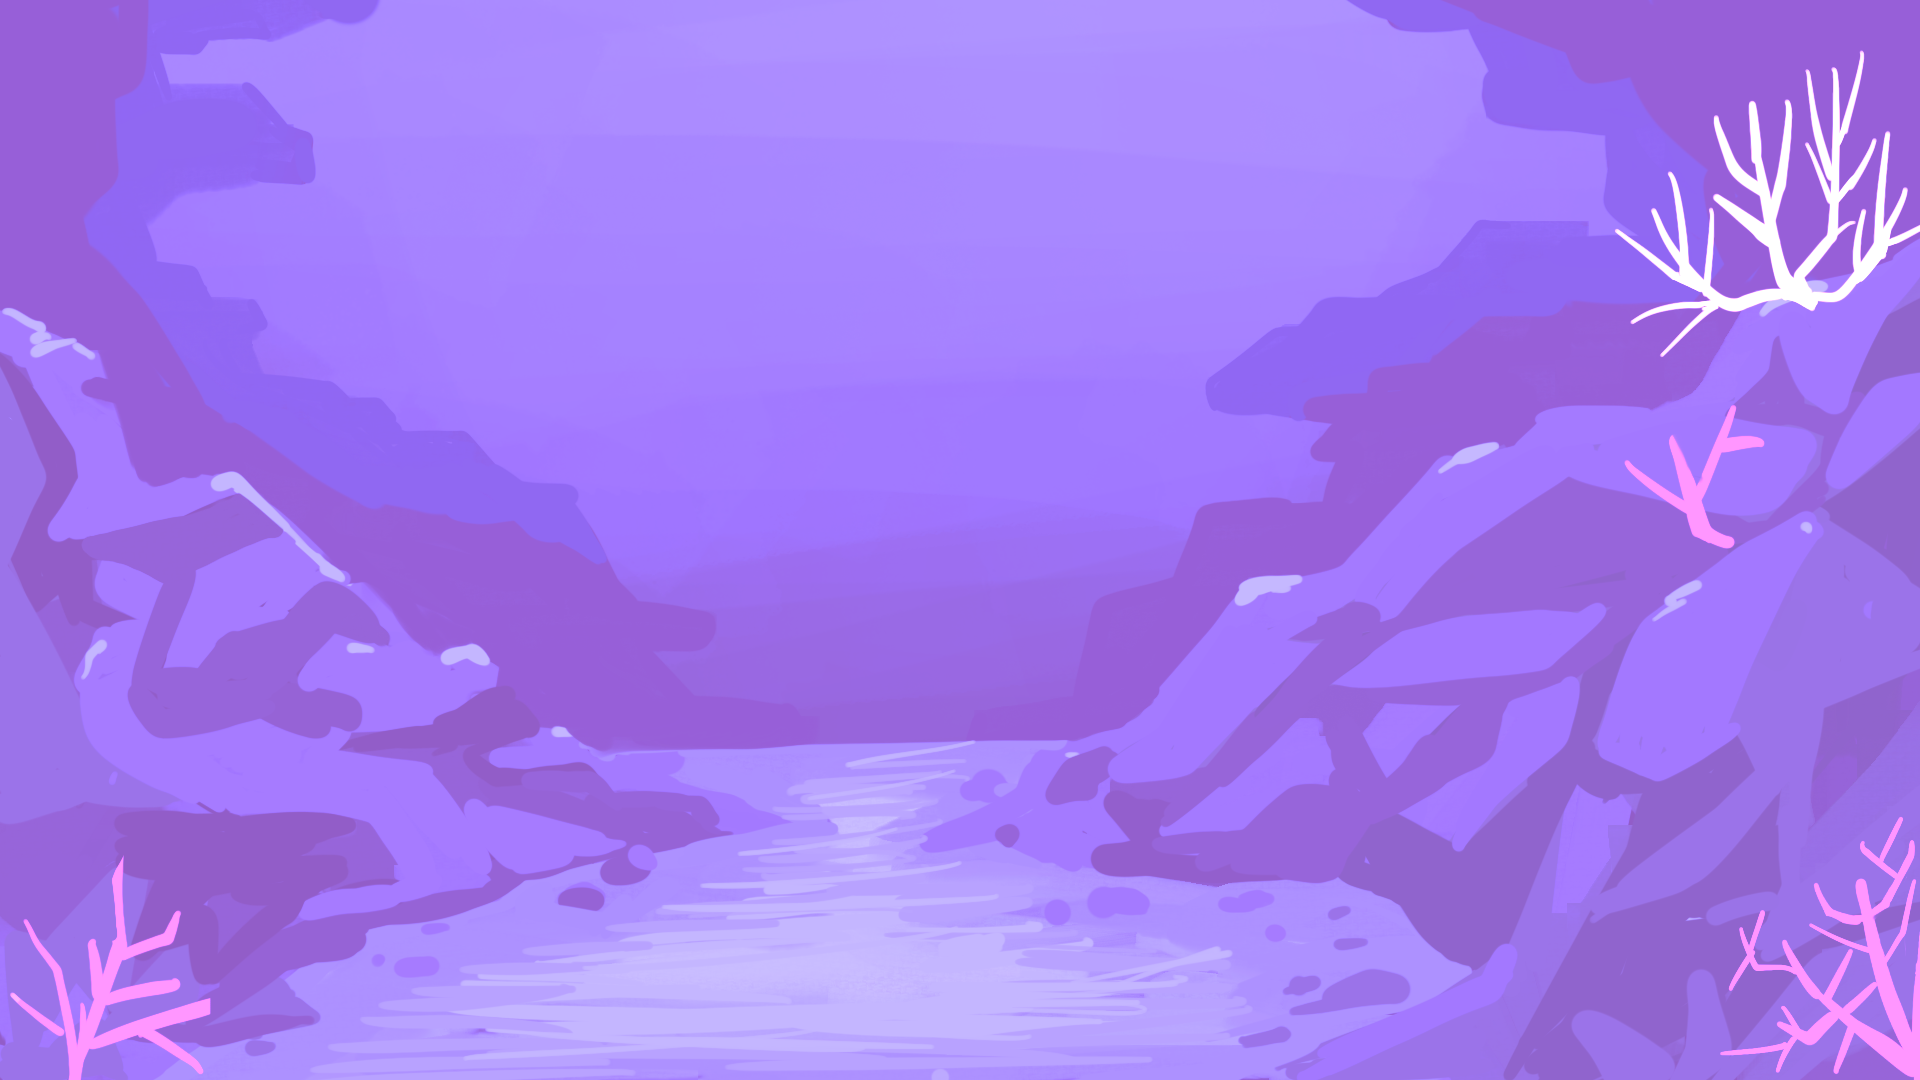
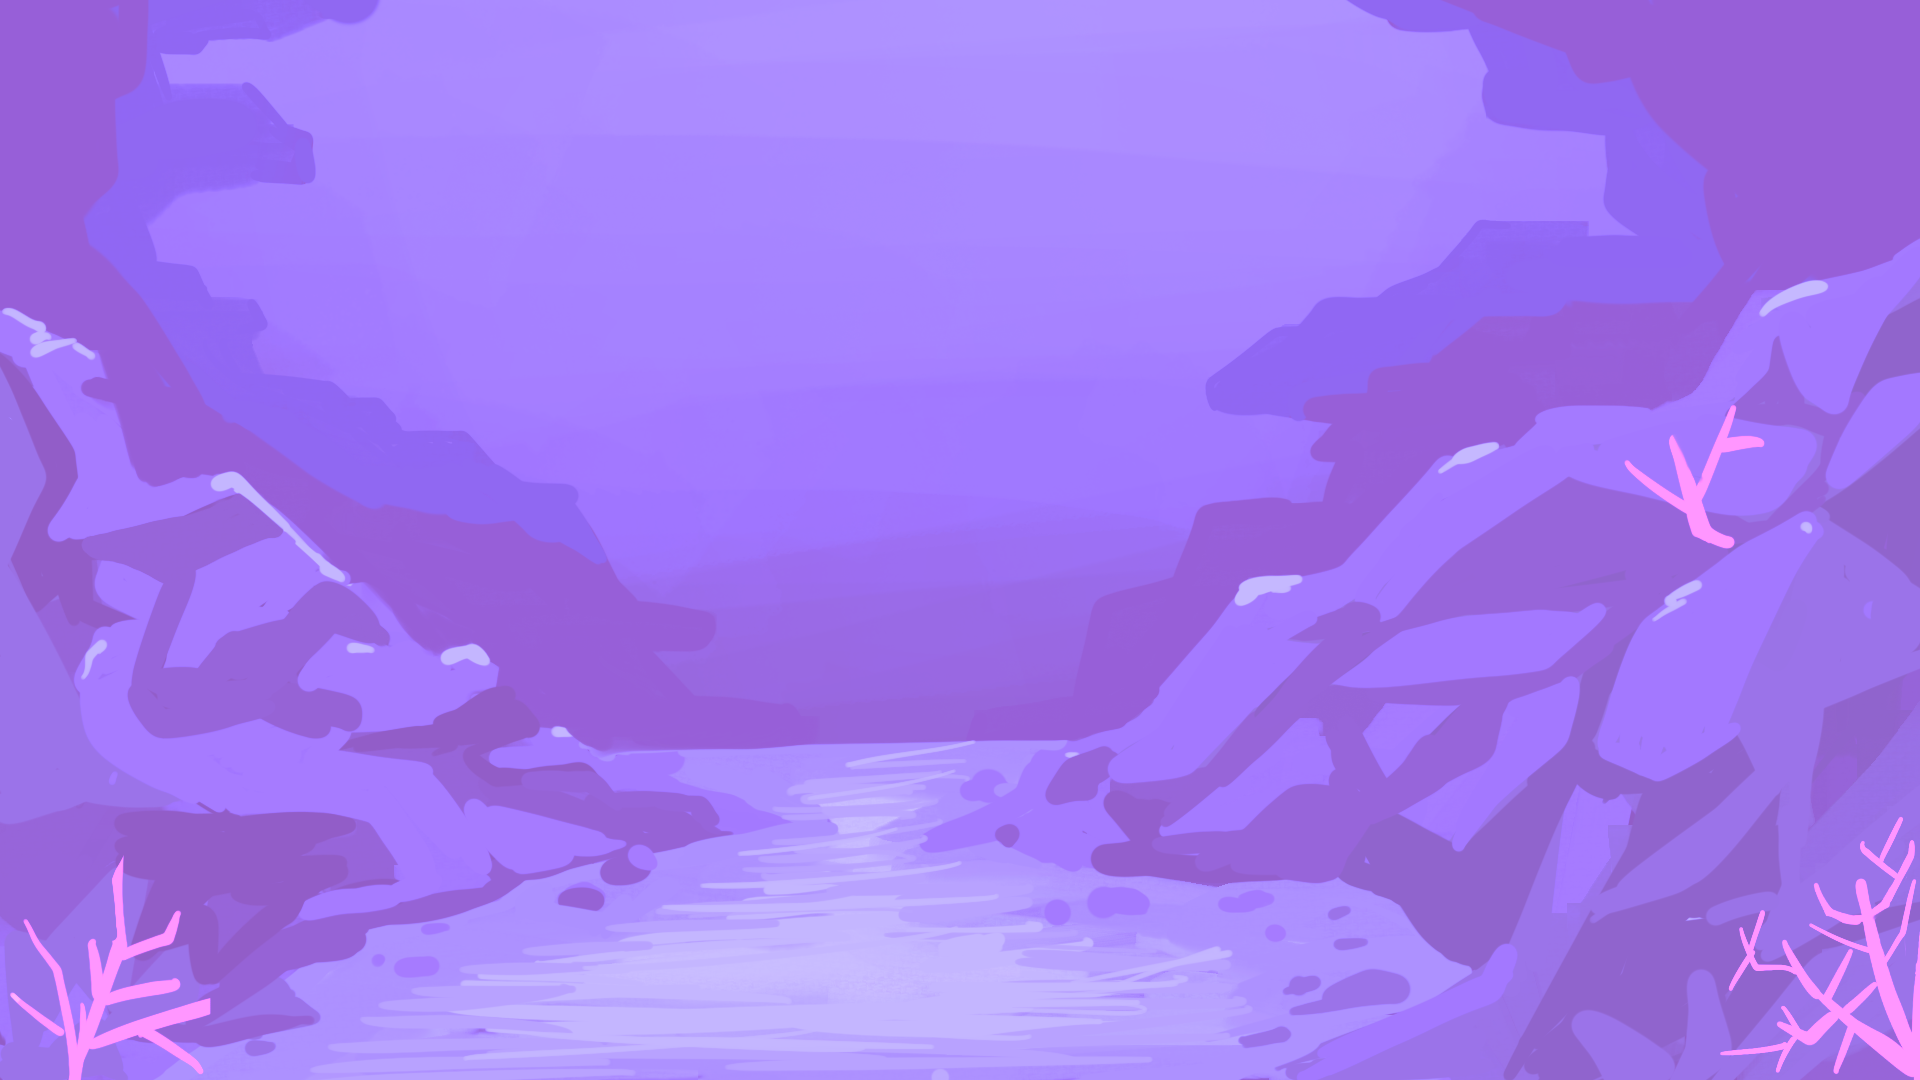
Finished visual elements and added animated seaweed!

Changed region(s): [[0.8438, 0.0611, 1.0, 0.3056]]

diff --git a/music_starter.js b/music_starter.js
@@ -6,44 +6,63 @@ let ShineArrayY = [130, 850, 1000, 300, 340, 690];
 let CircleArrayX = [500, 700, 100, 60, 220, 50, 500, 1000, 860, 600, 1200, 1400, 1170, 1400, 1600, 1870, 1640];
 let CircleArrayY = [50, 60, 160, 650, 840, 1000, 1040, 1020, 340, 250, 120, 50, 450, 540, 800, 300, 200];
 let bubbles = [];
-let coralArrayX = [10, 5, 60, 70, 130, 150, 150, 20, 1590, 1660, 1680, 1600, 1670, 1750, 210];
-let coralArrayY = [950, 1040, 1000, 900, 960, 890, 1040, 870, 530, 560, 500, 470, 420, 460, 970];
+let coralArrayX = [10, 5, 60, 70, 130, 150, 150, 20, 1590, 1660, 1680, 1600, 1670, 1750, 210, 1860, 1800, 1770, 1870, 1840, 1720, 1700];
+let coralArrayY = [950, 1040, 1000, 900, 960, 890, 1040, 870, 530, 560, 500, 470, 420, 460, 970, 850, 900, 990, 950, 1030, 910, 1030];
 let fishY;
 let swirlY;
+
 let Ymove = 250 //where the bubbles start
 let Ymove2 = 1380
 let Ymove3 = 1480
-let img; //pink fish
-let img2; //blue fish
-let img3; //rocks
-let img4; //bw rocks w coral
-let img5; //water background
-let img6; //bw purple coral
-let img7; //purple coral left
-let img8; //purple coral right
-let img9; //swirl
-let img10; //magic background
-let img11; //bw purplecoral right
+
+let PinkFish; //pink fish
+let BlueFish; //blue fish
+let BackgroundRocks; //rocks
+let BWBackgroundRocks; //bw rocks w coral
+let Water; //water background
+let PurpleCoralL; //purple coral left
+let PurpleCoralR; //purple coral right
+let BWPurpleCoralL; //bw purple coral
+let BWPurpleCoralR; //bw purplecoral right
+let Swirl; //swirl
+let MagicBackground; //magic background
+let Seaweed = [];
+let MSeaweed = [];
+let BWSeaweed = [];
+
 let firstRun = true
 
 // vocal, drum, bass, and other are volumes ranging from 0 to 100
 function draw_one_frame(words, vocal, drum, bass, other, counter) {
+  rectMode(CENTER)
   if (firstRun) { //images
-    img = loadImage('Pink_Fish.png'); //pink fish
-    img2 = loadImage('Blue_Fish.png'); //blue fish
-    img3 = loadImage('RockCoral.png');
-    img4 = loadImage('BWRockCoral.png');
-    img5 = loadImage('Water.png');
-    img6 = loadImage('BWPurpleCoral.png')
-    img7 = loadImage('PurpleCoral.png');
-    img8 = loadImage('PurpleCoral2.png');
-    img9 = loadImage('Swirl.png');
-    img10 = loadImage('magicbackground.png');
-    img11 = loadImage('BWPurpleCoral2.png');
+    PinkFish = loadImage('Pink_Fish.png'); //pink fish
+    BlueFish = loadImage('Blue_Fish.png'); //blue fish
+    BackgroundRocks = loadImage('RockCoral.png');
+    BWBackgroundRocks = loadImage('BWRockCoral.png');
+    Water = loadImage('Water.png');
+    BWPurpleCoralL = loadImage('BWPurpleCoral.png')
+    PurpleCoralL = loadImage('PurpleCoral.png');
+    PurpleCoralR = loadImage('PurpleCoral2.png');
+    Swirl = loadImage('Swirl.png');
+    MagicBackground = loadImage('magicbackground.png');
+    BWPurpleCoralR = loadImage('BWPurpleCoral2.png');
+
+    Seaweed.push(loadImage('Seaweed_1.png'));
+    Seaweed.push(loadImage('Seaweed_2.png'));
+    Seaweed.push(loadImage('Seaweed_3.png'));
+
+    MSeaweed.push(loadImage('MSeaweed_1.png'));
+    MSeaweed.push(loadImage('MSeaweed_2.png'));
+    MSeaweed.push(loadImage('MSeaweed_3.png'));
+
+    BWSeaweed.push(loadImage('BWSeaweed_1.png'));
+    BWSeaweed.push(loadImage('BWSeaweed_2.png'));
+    BWSeaweed.push(loadImage('BWSeaweed_3.png'));
+
     firstRun = false
   }
-  rectMode(CENTER)
-  background(img5);
+  background(Water);
 
   class Bubble {
     constructor(x, y, r) {
@@ -75,44 +94,43 @@ function draw_one_frame(words, vocal, drum, bass, other, counter) {
   let swirlY = map(bass, 0, 100, -50, 10)
 
 
-  //start and end
+  //start and end scene
   if ((counter > -5 && counter < 901) || (counter > 14700 && counter < 15801)) {
-    image(img3, 0, 0); //rocks
-    image(img7, 430, 550, coralSize, coralSize); //purple corals 
-    image(img8, 1400, 550, coralSize, coralSize);
+    image(BackgroundRocks, 0, 0); //rocks
+    image(PurpleCoralL, 430, 550, coralSize, coralSize); //purple corals 
+    image(PurpleCoralR, 1400, 550, coralSize, coralSize);
     DrawCoral([211, 95, 212], [226, 182, 244]); //spinning coral
     DrawCoral([211, 95, 212], [226, 182, 244], 1150, -140);
     DrawCoral([211, 95, 212], [226, 182, 244], 50, 100, 0.5);
-    DrawSeaweed();
-    image(img2, 800, fishY); //change to blue fishy
+    DrawSeaweed(Seaweed);
+    image(BlueFish, 800, fishY); //change to blue fishy
 
   }
 
-  //build up
+  //build up scene scene
   if ((counter > 900 && counter < 2721) || (counter > 6500 && counter < 7401) || (counter > 10100 && counter < 12001)) {
-    image(img3, 0, 0); //rocks
-    image(img7, 430, 550, coralSize, coralSize); //purple corals 
-    image(img8, 1400, 550, coralSize, coralSize);
+    image(BackgroundRocks, 0, 0); //rocks
+    image(PurpleCoralL, 430, 550, coralSize, coralSize); //purple corals 
+    image(PurpleCoralR, 1400, 550, coralSize, coralSize);
     DrawCoral([211, 95, 212], [226, 182, 244]);
     DrawCoral([211, 95, 212], [226, 182, 244], 1150, -140);
     DrawCoral([211, 95, 212], [226, 182, 244], 50, 100, 0.5);
-    DrawSeaweed();
-    image(img, 800, fishY); // pink fish
+    DrawSeaweed(Seaweed);
+    image(PinkFish, 800, fishY); // pink fish
   }
 
-  //magic 
+  //magic scene
   if ((counter > 2720 && counter < 5601) || (counter > 7400 && counter < 9201) || (counter > 12000 && counter < 14700)) {
-    image(img10, 0, 0);
+    image(MagicBackground, 0, 0);
     DrawCoral([255, 172, 255], [248, 231, 255]); //spinning coral
     DrawCoral([255, 172, 255], [248, 231, 255], 1150, -140);
     DrawCoral([255, 172, 255], [248, 231, 255], 50, 100, 0.5);
-    DrawSeaweed();
+    DrawSeaweed(MSeaweed);
     push();
     scale(1.06);
-    image(img9, 0, swirlY); //swirls :O
+    image(Swirl, 0, swirlY); //swirls :O
     pop();
-    image(img, 800, fishY); // fish
-
+    image(PinkFish, 800, fishY); // fish
 
     for (let s = 0; s <= 17; s++) { //circles
       fill(255, 232, 234);
@@ -128,42 +146,40 @@ function draw_one_frame(words, vocal, drum, bass, other, counter) {
 
       ellipse(ShineArrayX[j], ShineArrayY[j], shineSize, 5);
       ellipse(ShineArrayX[j], ShineArrayY[j], 5, shineSize); //shine shape
-
     }
 
-    // for (let h = 0; h <= 20; h++) { //stars
-    // }    
   }
 
-  //still
+  //still scene
   if ((counter > 5600 && counter < 6501) || (counter > 9200 && counter < 10101)) {
     background(36, 36, 36);
-    image(img4, 0, 0)
-    image(img6, 430, 550, coralSize, coralSize); //purple corals 
-    image(img11, 1400, 550, coralSize, coralSize);
+    image(BWBackgroundRocks, 0, 0)
+    image(BWPurpleCoralL, 430, 550, coralSize, coralSize); //purple corals 
+    image(BWPurpleCoralR, 1400, 550, coralSize, coralSize);
     stroke('white');
     DrawCoral([143, 143, 143], [210, 210, 210]);
     DrawCoral([143, 143, 143], [210, 210, 210], 1150, -140);
     DrawCoral([143, 143, 143], [210, 210, 210], 50, 100, 0.5);
-    DrawSeaweed();
+    DrawSeaweed(BWSeaweed);
   }
 
-  //bubbles 
-  // if ((counter > 2650 && counter < 2700) || (counter > 5550 && counter < 5650) || (counter > 6450 && counter < 6550)) { //needs 150 counts
-  //   for (let b = 0; b < 340; b++) {
-  //     let x = random(width);
-  //     let y = random(height);
-  //     let r = random(10, 70);
-  //     bubbles[b] = new Bubble(x, y, r)
-  //     bubblesInitialized = true;
-  //   }
+  //bubbles
+  if ((counter > 2650 && counter < 2700) || (counter > 5550 && counter < 5650) || (counter > 6450 && counter < 6550)) { //needs 150 counts
+    for (let b = 0; b < 340; b++) {
+      let x = random(width);
+      let y = random(height);
+      let r = random(10, 70);
+      bubbles[b] = new Bubble(x, y, r)
+      bubblesInitialized = true;
+    }
 
-  //   for (let b = 0; b < 240; b++) {
-  //     bubbles[b].move();
-  //     bubbles[b].show();
-  //   }
+    for (let b = 0; b < 240; b++) {
+      bubbles[b].move();
+      bubbles[b].show();
+    }
 
-  // }
+  }
+
   for (let i = 0; i <= 20; i++) { //DUPLICATE
     fill(208, 243, 240);
     noFill();
@@ -213,8 +229,8 @@ function draw_one_frame(words, vocal, drum, bass, other, counter) {
       translate(offsetX, offsetY)
       scale(size)
       line(160, 730, 300, 650 + coralLength);
-      line(230, 665 + coralLength, 200, 600 + coralLength);
-      line(230, 665 + coralLength, 270, 590 + coralLength);
+      line(230, 683 + coralLength / 2, 200, 600 + coralLength);
+      line(230, 683 + coralLength / 2, 270, 590 + coralLength);
       line(160, 730, 100, 600 + coralLength);
       line(100, 600 + coralLength, 120, 570 + coralLength);
       line(100, 600 + coralLength, 60, 590 + coralLength);
@@ -224,14 +240,14 @@ function draw_one_frame(words, vocal, drum, bass, other, counter) {
       line(150, 740 + coralLength, 120, 760 + coralLength);
       line(160, 720 + coralLength, 190, 770 + coralLength);
       line(160, 730, 290, 710 + coralLength);
-      line(200, 700 + coralLength, 250, 740 + coralLength)
+      line(200, 720 + coralLength / 2, 250, 740 + coralLength)
       line(160, 730, 100, 690 + coralLength);
-      line(120, 690 + coralLength, 90, 650 + coralLength);
+      line(120, 705 + coralLength / 2, 90, 650 + coralLength);
       pop();
 
     }
 
-    for (let k = 0; k <= 14; k++) { //pink star shaped corals
+    for (let k = 0; k <= 21; k++) { //pink star shaped corals
       push();
       stroke(coralColour);
       fill(coralColour);
@@ -251,8 +267,12 @@ function draw_one_frame(words, vocal, drum, bass, other, counter) {
 
   }
 
-  //from the snail video include some moving seaweed
-  function DrawSeaweed(seaweedColour) {
+  function DrawSeaweed(SeaweedType) {
+    let seaweedFrame = int(map(other, 0, 100, 0, 3));
+    console.log(seaweedFrame);
+    push();
+    image(SeaweedType[seaweedFrame], 0, 0);
+    pop();
 
   }
 }
